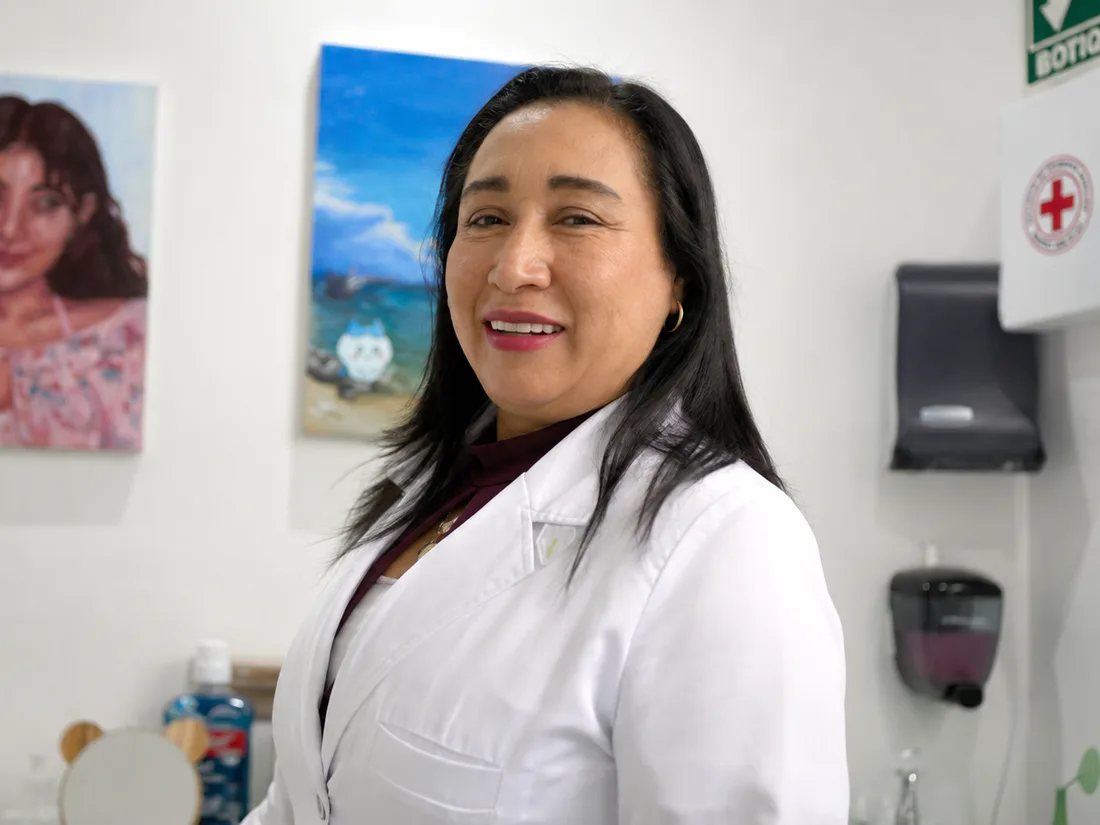
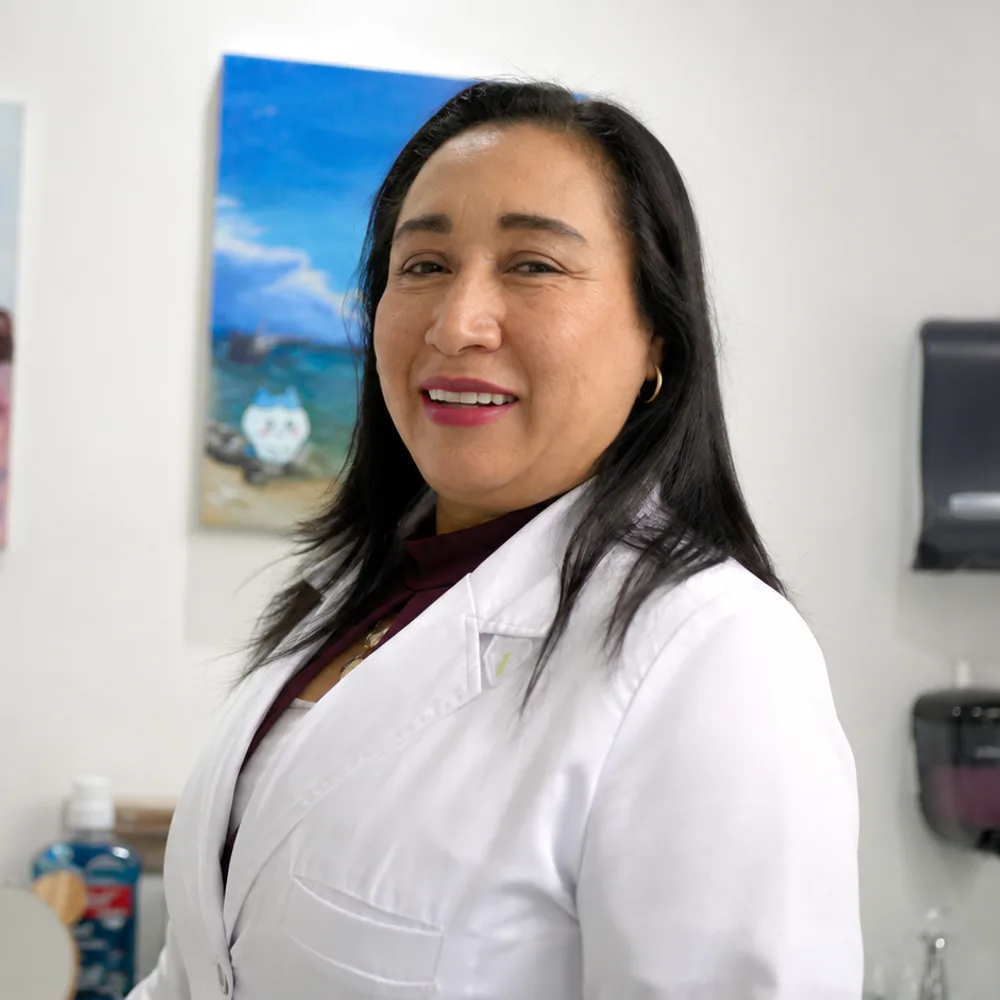
Segunda foto de la doctora, alternable
El retrato de la sección de presentación pasa a ser dos fotos con botones para
cambiar entre ellas.

Las dos se recortan a cuadrado. Una es apaisada y la otra vertical, y sin ese
recorte común el hueco cambiaría de forma al pasar de una a otra y empujaría
todo lo que tiene debajo. Medido: 591x591 con las dos, sin movimiento.

De la foto vertical se toma el cuadrado un 6 % por debajo del borde superior:
centrado sin más le cortaba la frente, y pegado arriba dejaba demasiado aire.

Las dos imágenes se dibujan siempre y solo cambia la opacidad, en vez de montar
y desmontar la que toca: así el cambio es un fundido y no un parpadeo mientras
el navegador decodifica la otra.

Arregla además un fallo que salió al verificar esto: el enlace de WhatsApp del
pie se quedaba invisible en el celular. El observador de animaciones exige que
el elemento entre 80 px en pantalla antes de revelarlo, y los últimos del
documento nunca lo cumplen porque el scroll se acaba antes. Un centinela al
final del <body> avisa cuando se llegó abajo del todo y revela lo que quede.
En escritorio no se veía porque el pie es más bajo y el elemento sí alcanzaba
el margen.

diff --git a/components/RetratoDoctora.tsx b/components/RetratoDoctora.tsx
@@ -1,0 +1,86 @@
+"use client";
+
+import { useState } from "react";
+import Image from "next/image";
+import { hero } from "@/lib/contenido";
+
+/**
+ * Las fotos de la doctora, alternables con dos botones.
+ *
+ * Las dos imágenes se dibujan siempre y se cambia solo la opacidad, en lugar de
+ * montar y desmontar la que toca: así el cambio es un fundido y no un
+ * parpadeo mientras el navegador decodifica la otra.
+ *
+ * Ambas están recortadas a cuadrado desde el script, así que el hueco mide lo
+ * mismo con cualquiera de las dos y la página no se mueve al cambiar.
+ */
+export default function RetratoDoctora() {
+  const retratos = hero.retratos;
+  const [activa, setActiva] = useState(0);
+
+  return (
+    <div
+      style={{
+        position: "relative",
+        width: "100%",
+        aspectRatio: "1 / 1",
+        borderRadius: "var(--radius-tarjeta)",
+        overflow: "hidden",
+        background: "var(--color-rosa-pal)",
+      }}
+    >
+      {retratos.map((r, i) => (
+        <Image
+          key={r.src}
+          src={r.src}
+          alt={r.alt}
+          fill
+          sizes="(max-width: 860px) 92vw, 620px"
+          // La primera es la que se ve al cargar: se pide con prioridad para que
+          // no llegue después del texto que tiene al lado.
+          priority={i === 0}
+          style={{
+            objectFit: "cover",
+            opacity: activa === i ? 1 : 0,
+            transition: "opacity .5s ease",
+          }}
+        />
+      ))}
+
+      <div
+        style={{
+          position: "absolute",
+          bottom: 14,
+          left: "50%",
+          transform: "translateX(-50%)",
+          display: "flex",
+          gap: 8,
+          padding: "8px 12px",
+          borderRadius: 999,
+          background: "rgba(13,12,11,0.45)",
+          backdropFilter: "blur(4px)",
+        }}
+      >
+        {retratos.map((r, i) => (
+          <button
+            key={r.src}
+            type="button"
+            onClick={() => setActiva(i)}
+            aria-label={`Ver foto ${i + 1} de ${retratos.length}`}
+            aria-pressed={activa === i}
+            style={{
+              width: activa === i ? 26 : 10,
+              height: 10,
+              padding: 0,
+              borderRadius: 999,
+              border: "none",
+              cursor: "pointer",
+              background: activa === i ? "#fff" : "rgba(255,255,255,0.55)",
+              transition: "width .3s ease, background-color .3s ease",
+            }}
+          />
+        ))}
+      </div>
+    </div>
+  );
+}

diff --git a/components/AnimarAlEntrar.tsx b/components/AnimarAlEntrar.tsx
@@ -49,7 +49,34 @@ export default function AnimarAlEntrar() {
     );
 
     elementos.forEach((el) => observador.observe(el));
-    return () => observador.disconnect();
+
+    /* Red de seguridad para el final de la página.
+     *
+     * El margen negativo de arriba exige que el elemento entre 80 px en
+     * pantalla antes de revelarlo. Los últimos elementos del documento nunca
+     * llegan a cumplirlo: por mucho que se baje, el scroll se acaba antes. Así
+     * es como el enlace de WhatsApp del pie se quedaba invisible en el celular.
+     *
+     * Un centinela al final del <body> avisa cuando se ha llegado abajo del
+     * todo, y entonces se revela lo que quede pendiente. */
+    const centinela = document.createElement("div");
+    centinela.style.cssText = "height:1px;width:1px;pointer-events:none";
+    centinela.setAttribute("aria-hidden", "true");
+    document.body.append(centinela);
+
+    const final = new IntersectionObserver(([entrada]) => {
+      if (!entrada.isIntersecting) return;
+      elementos.forEach((el) => el.classList.add("revelado"));
+      final.disconnect();
+      observador.disconnect();
+    });
+    final.observe(centinela);
+
+    return () => {
+      observador.disconnect();
+      final.disconnect();
+      centinela.remove();
+    };
   }, []);
 
   /**

diff --git a/components/Intro.tsx b/components/Intro.tsx
@@ -1,6 +1,6 @@
-import Image from "next/image";
 import Contador from "./Contador";
-import { barraDatos, hero, sobreLaDoctora } from "@/lib/contenido";
+import RetratoDoctora from "./RetratoDoctora";
+import { barraDatos, sobreLaDoctora } from "@/lib/contenido";
 
 /**
  * Presentación de la doctora: texto a la izquierda, foto a la derecha, y
@@ -56,25 +56,8 @@ export default function Intro() {
           </p>
         </div>
 
-        <figure data-animar="aparecer" className="foto-zoom" style={{ display: "flex", ["--retraso" as string]: "120ms" }}>
-          <div
-            style={{
-              position: "relative",
-              width: "100%",
-              minHeight: "clamp(280px, 34vw, 460px)",
-              borderRadius: "var(--radius-tarjeta)",
-              overflow: "hidden",
-              background: "var(--color-rosa-pal)",
-            }}
-          >
-            <Image
-              src={hero.imagen.src}
-              alt={hero.imagen.alt}
-              fill
-              sizes="(max-width: 860px) 92vw, 700px"
-              style={{ objectFit: "cover" }}
-            />
-          </div>
+        <figure data-animar="aparecer" style={{ display: "flex", ["--retraso" as string]: "120ms" }}>
+          <RetratoDoctora />
         </figure>
       </div>
 

diff --git a/lib/contenido.ts b/lib/contenido.ts
@@ -108,10 +108,21 @@ export const hero = {
     { iniciales: "JL", degradado: "linear-gradient(150deg, #6f8ea8, #3d566b)" },
     { iniciales: "AC", degradado: "linear-gradient(150deg, #d8b25e, #9a7522)" },
   ],
-  imagen: {
-    src: "/img/dra-gloria.webp",
-    alt: "La Dra. Gloria Portillo Atempa, sonriendo en su consultorio de Zacatelco",
-  },
+  /**
+   * Retratos que alternan en la sección de presentación. Los dos se recortan a
+   * cuadrado (ver scripts/optimizar-imagenes.mjs) para que al cambiar de uno a
+   * otro el hueco no cambie de tamaño.
+   */
+  retratos: [
+    {
+      src: "/img/dra-gloria.webp",
+      alt: "La Dra. Gloria Portillo Atempa, sonriendo en la recepción de su consultorio",
+    },
+    {
+      src: "/img/dra-gloria-2.webp",
+      alt: "La Dra. Gloria Portillo Atempa, con bata blanca, junto a la unidad dental de su consultorio",
+    },
+  ],
 } as const;
 
 /** Enlaces del menú superior. */
